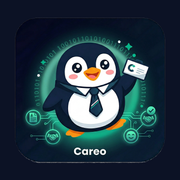
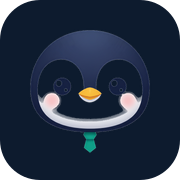
fix: ペンギン画像の白背景除去 + アプリアイコン更新 + LP画像をPNGに統一
- sharp で全9枚のPNGから白背景を透過処理
- アプリアイコン (icon-192, icon-512, apple-touch-icon, favicon-32) を新ペンギンで再生成
- LP (Desktop/Mobile/CareerCenter) の画像参照をSVG→PNGに変更

diff --git a/src/components/landing/LandingPage.tsx b/src/components/landing/LandingPage.tsx
@@ -544,7 +544,7 @@ export function LandingPage({ recentPosts = [], userCount = 0, reviews = [] }: {
             {/* Left: Text */}
             <div>
               <div className="flex items-center gap-3 mb-8">
-                <img src="/kareo/kareo-default.svg" alt="カレオ" className="w-10 h-auto flex-shrink-0" />
+                <img src="/kareo/kareo-default.png" alt="カレオ" className="w-10 h-auto flex-shrink-0" />
                 <div className="inline-flex items-center gap-2 border border-[#00c896]/30 bg-[#00c896]/6 text-[#00a87e] text-xs font-semibold px-4 py-2 rounded-full">
                   <span className="w-1.5 h-1.5 bg-[#00c896] rounded-full animate-pulse" />
                   {badgeText}
@@ -596,7 +596,7 @@ export function LandingPage({ recentPosts = [], userCount = 0, reviews = [] }: {
               {/* Glow behind mascot */}
               <div className="absolute w-80 h-80 rounded-full bg-[#00c896]/12 blur-3xl" />
               <img
-                src="/kareo/kareo-default.svg"
+                src="/kareo/kareo-default.png"
                 alt="カレオ"
                 className="relative w-[460px] xl:w-[560px] h-auto drop-shadow-2xl animate-float"
               />

diff --git a/src/components/landing/CareerCenterLandingPage.tsx b/src/components/landing/CareerCenterLandingPage.tsx
@@ -291,7 +291,7 @@ export default function CareerCenterLandingPage() {
               <div className="absolute w-72 h-72 rounded-full bg-[#00c896]/10 blur-3xl" />
               {/* eslint-disable-next-line @next/next/no-img-element */}
               <img
-                src="/kareo/kareo-default.svg"
+                src="/kareo/kareo-default.png"
                 alt="カレオ"
                 className="relative w-[460px] xl:w-[560px] h-auto drop-shadow-2xl animate-float"
               />

diff --git a/src/components/landing/MobileLandingPage.tsx b/src/components/landing/MobileLandingPage.tsx
@@ -473,7 +473,7 @@ export function MobileLandingPage({ recentPosts = [], userCount = 0, reviews = [
           </h1>
           {/* eslint-disable-next-line @next/next/no-img-element */}
           <img
-            src="/kareo/kareo-default.svg"
+            src="/kareo/kareo-default.png"
             alt="カレオ"
             className="absolute -right-4 bottom-0 w-48 h-auto animate-float drop-shadow-xl"
           />
